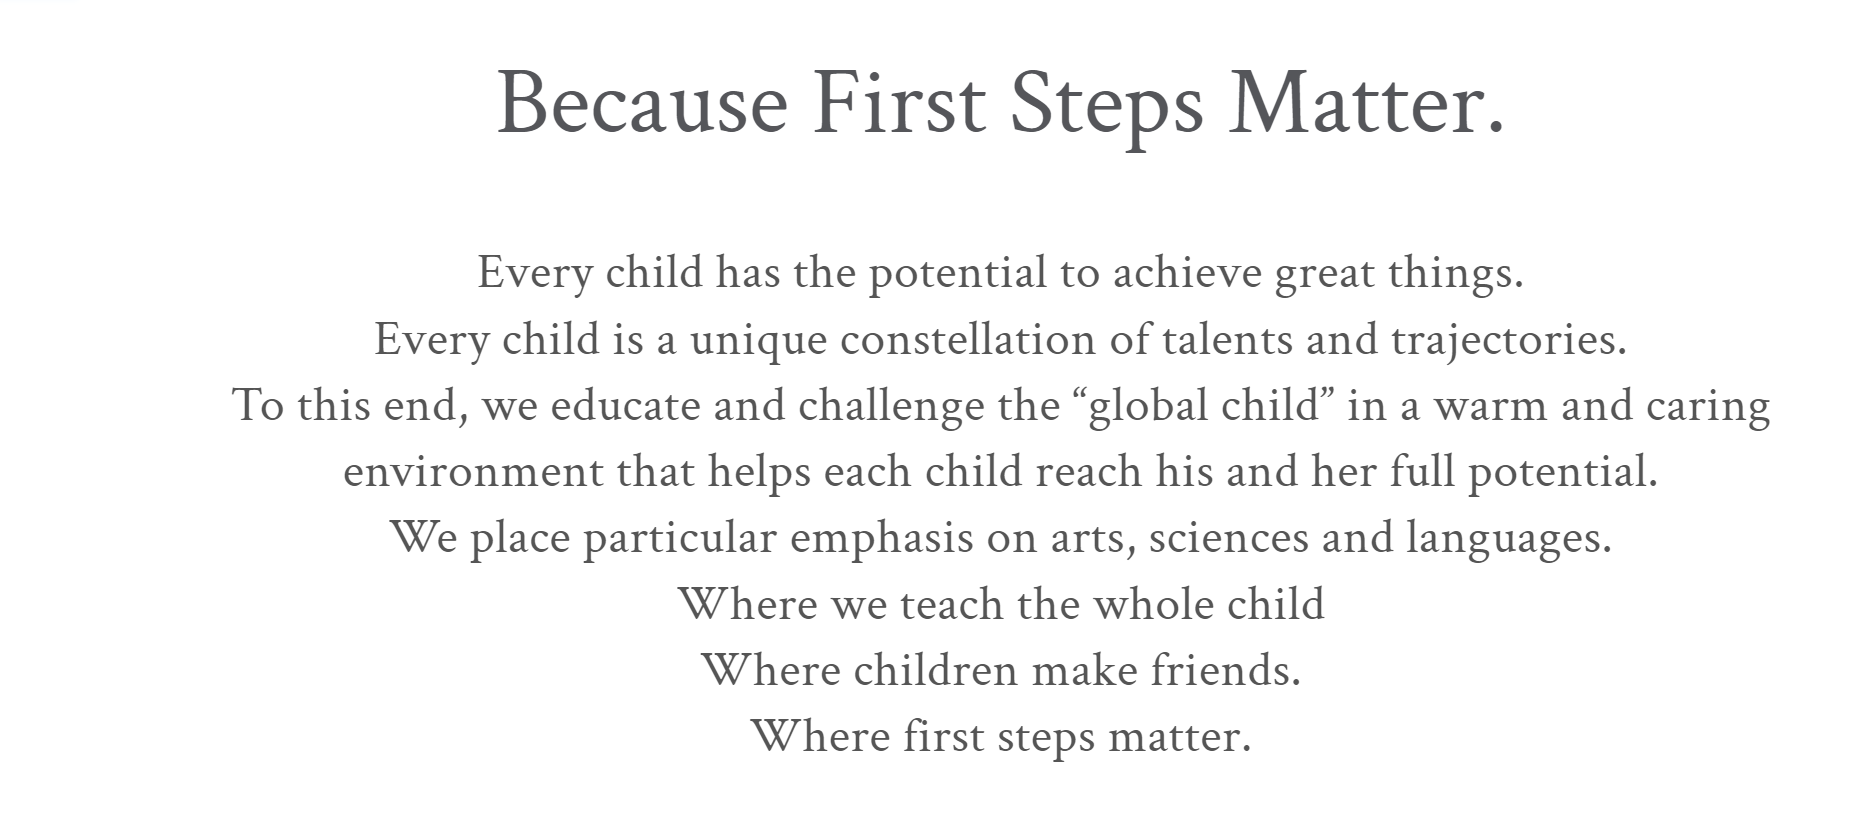
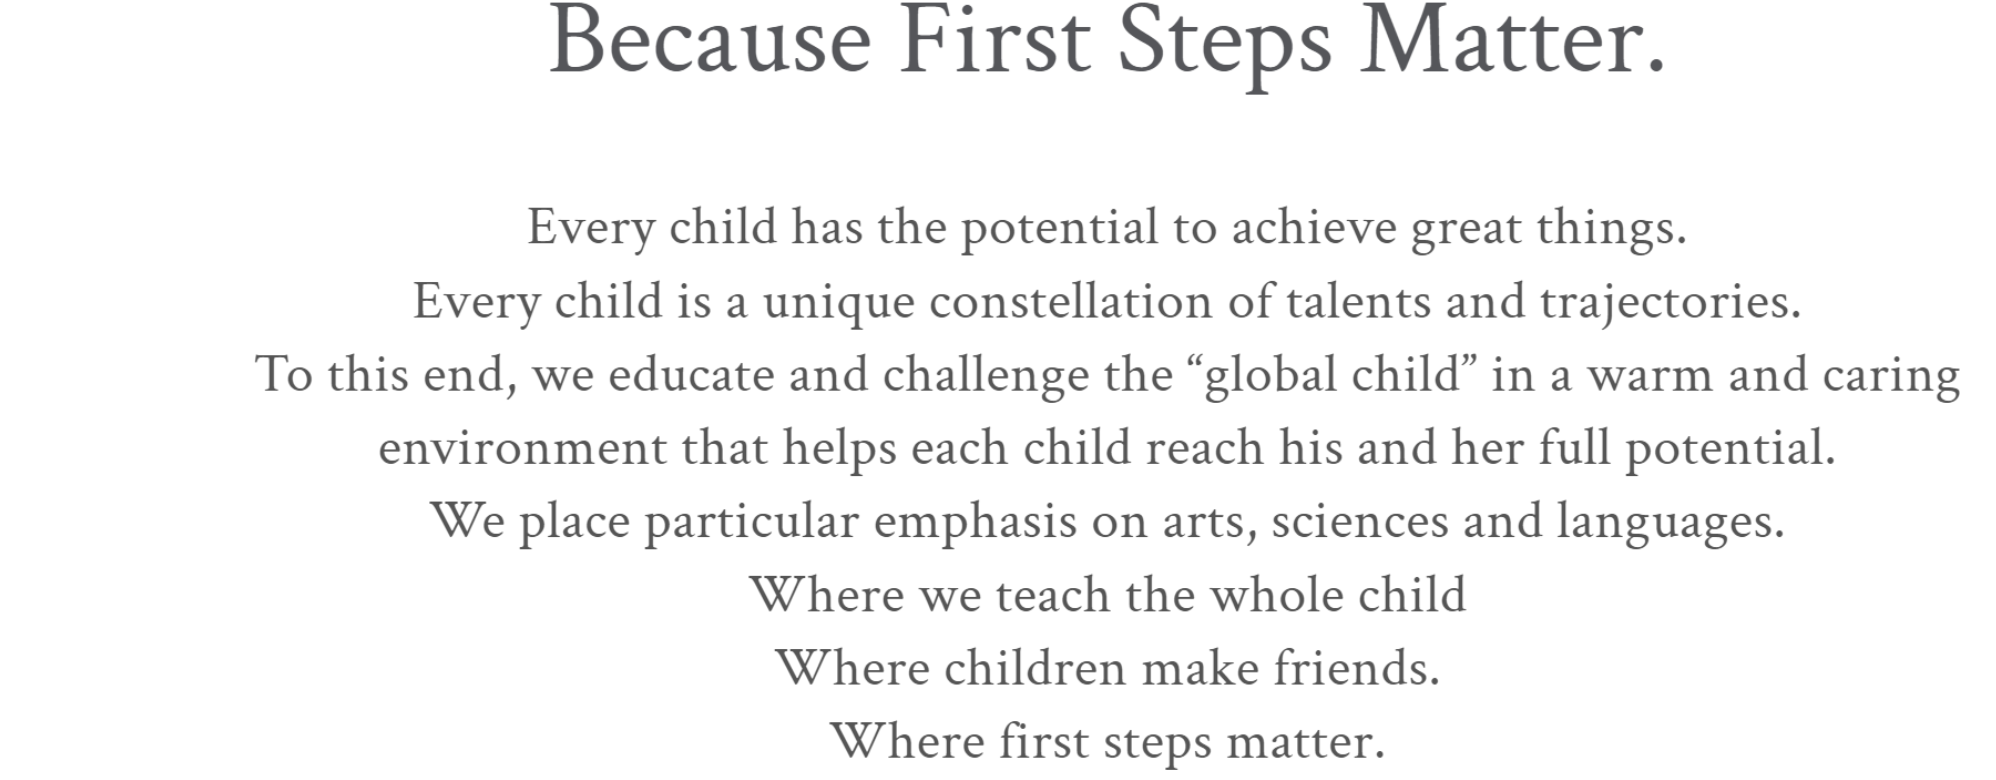
update home page

Changed region(s): [[0.1859, 0.5538, 0.9295, 0.9846], [0.1239, 0.2462, 0.9915, 0.5231], [0.2479, 0.0, 0.8365, 0.1846]]

diff --git a/src/page/Homepage.jsx b/src/page/Homepage.jsx
@@ -19,10 +19,11 @@ const Homepage = () => {
                 <Header></Header>
                 <ShowCase></ShowCase>
                 <DrawerList items={listItems} />
+              
             </Box>
-            <Box sx={{ paddingLeft: 62 }}>
-            
-                <Box id="toc_1">
+            <span id="toc_1"></span>
+            <Box sx={{ paddingLeft: '62px' }}>
+                <Box >
                     <h1 >About us</h1>
                     <img src='asset/aboutUs.png'
                         style={{ width: '90%' }}

diff --git a/src/page/Homepage.css b/src/page/Homepage.css
@@ -1,4 +1,4 @@
 /* styles.css */
 .thumbs-wrapper {
-    margin: 0;
+    margin: 0 !important;
   }
